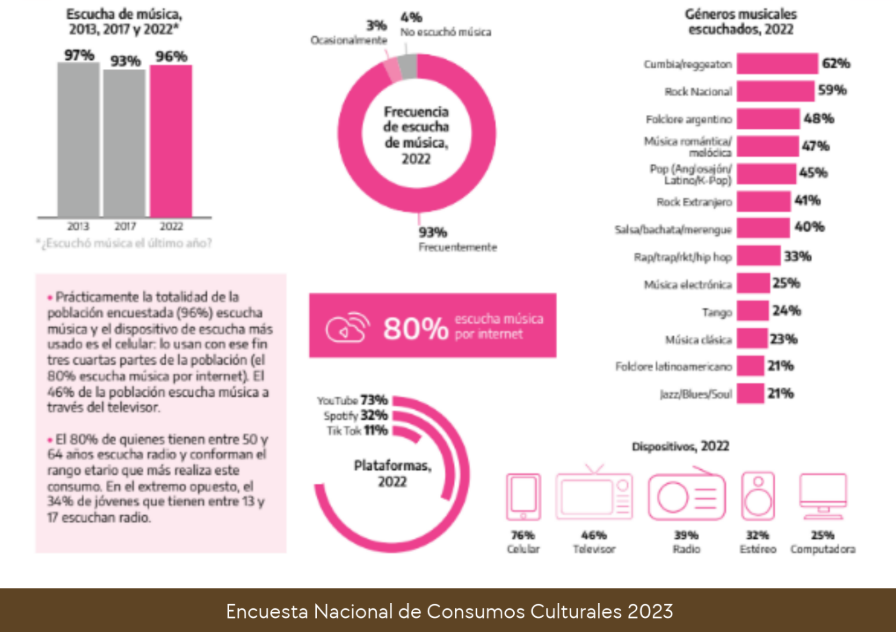
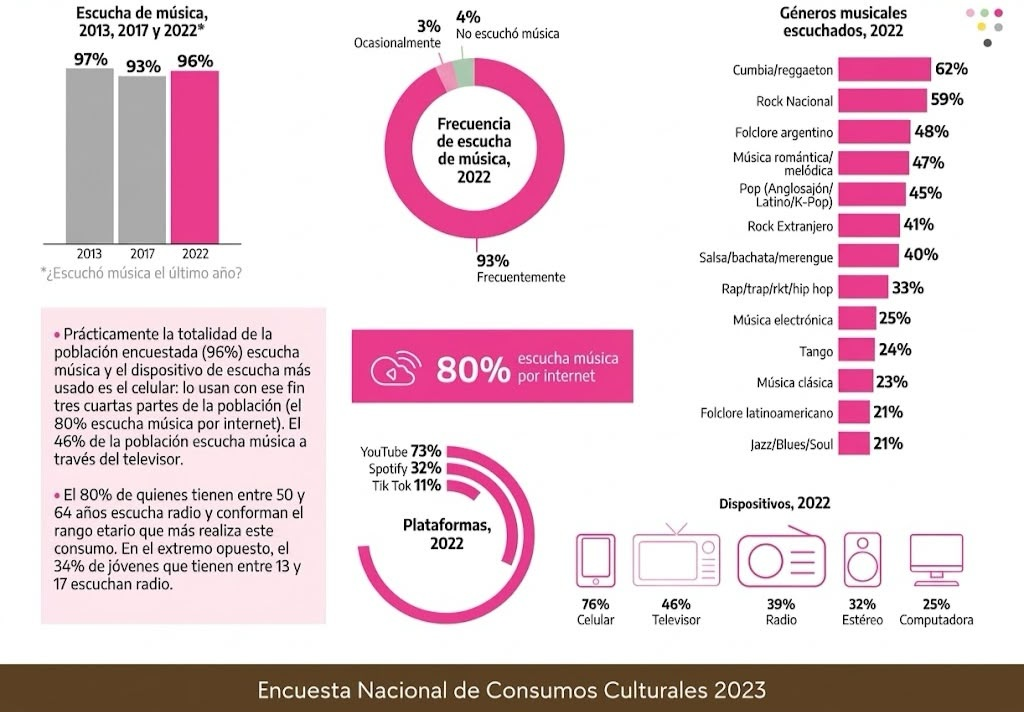
gráficos y viñetas índice

diff --git a/index.html b/index.html
@@ -2049,8 +2049,8 @@
               <img src="./assets/images/19-capturaVideo14.png" alt="Imagen de la captura del videoclip Jangadero">
 
 
-              <h4><strong>B. El Tiny Desk: de Sudam&eacute;rica para el
-                  mundo</strong></h4>
+              <h5><strong>B. El Tiny Desk: de Sudam&eacute;rica para el
+                  mundo</strong></h5>
 
               <p>Por otro lado, el 30 de abril de 2026, Milo J estren&oacute; su participaci&oacute;n
                 en el <em><u><a href="https://youtu.be/p7YpVl35pac">Tiny
@@ -2235,8 +2235,8 @@
                 utiliza
                 aqu&iacute; como pregunta para analizar la puesta, no como una afirmaci&oacute;n suya sobre Milo J.
               </p>
-              <h4><strong>C. Los objetos del Tiny Desk como signos</strong>
-              </h4>
+              <h5><strong>C. Los objetos del Tiny Desk como signos</strong>
+              </h5>
 
               <p>Desde la perspectiva semi&oacute;tica de Charles S. Peirce (como se cita en
                 Marafioti, 2004), los objetos presentes en el Tiny Desk pueden analizarse seg&uacute;n el tipo de
@@ -2296,8 +2296,8 @@
                 los elementos seleccionados participan en la construcci&oacute;n de sentidos y de qu&eacute; manera la
                 presentaci&oacute;n articula referencias personales, culturales y colectivas.</p>
 
-              <h4><strong><em>D. La jangada</em></strong><strong>:
-                  una celebraci&oacute;n colectiva</strong></h4>
+              <h5><strong>D.<em> La jangada</em></strong><strong>:
+                  una celebraci&oacute;n colectiva</strong></h5>
 
               <p><em><u><a href="https://youtu.be/8GU0Yal4ysI">La
                       Jangada</a></u></em>&nbsp;es una sesi&oacute;n/pel&iacute;cula musical de Milo J, lanzada

diff --git a/css/app.css b/css/app.css
@@ -1149,12 +1149,14 @@ a {
   position: absolute;
   top: 50%;
   left: 8px;
-  width: 6px;
-  height: 6px;
+  width: 12px;
+  height: 12px;
   border-radius: 50%;
-  background: var(--accent);
+  background: conic-gradient(from 315deg,
+    var(--accent) 0deg 90deg,
+    transparent 90deg 360deg);
   content: "";
-  transform: translateY(-50%);
+  transform: translateY(-60%) scaleY(-1);
 }
 
 .toc-item[data-level="1"]::before {
